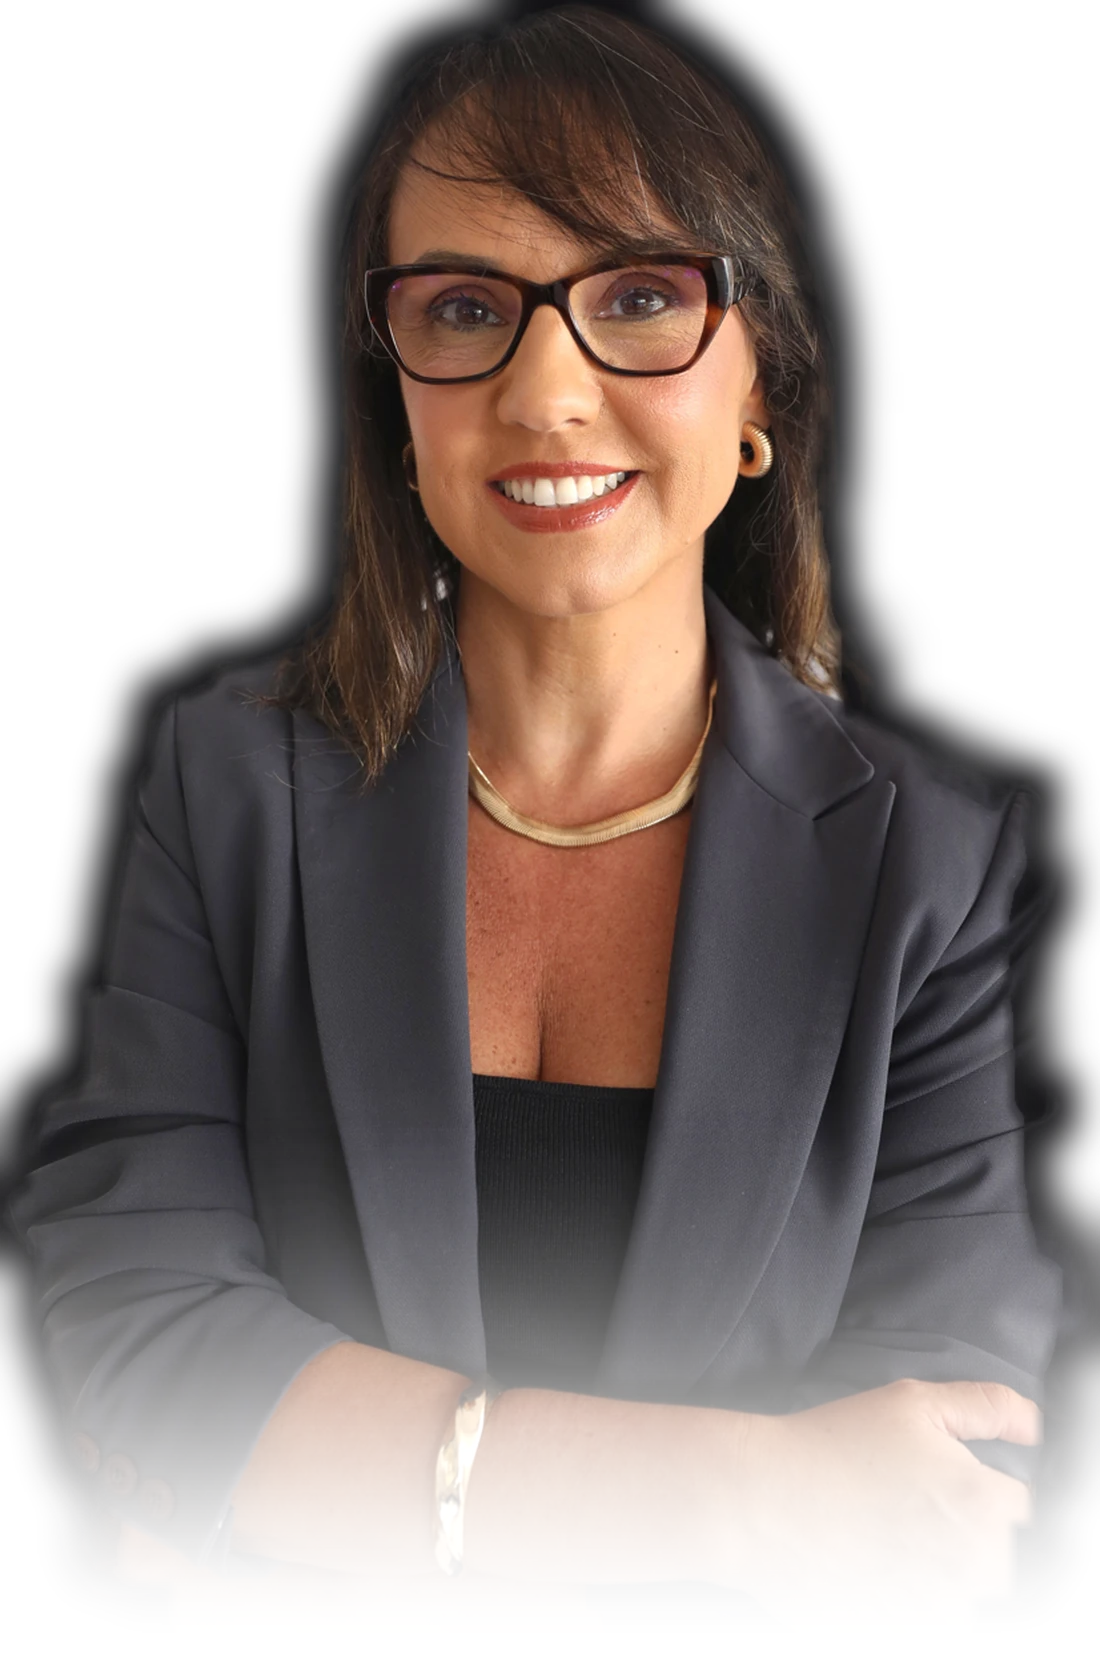
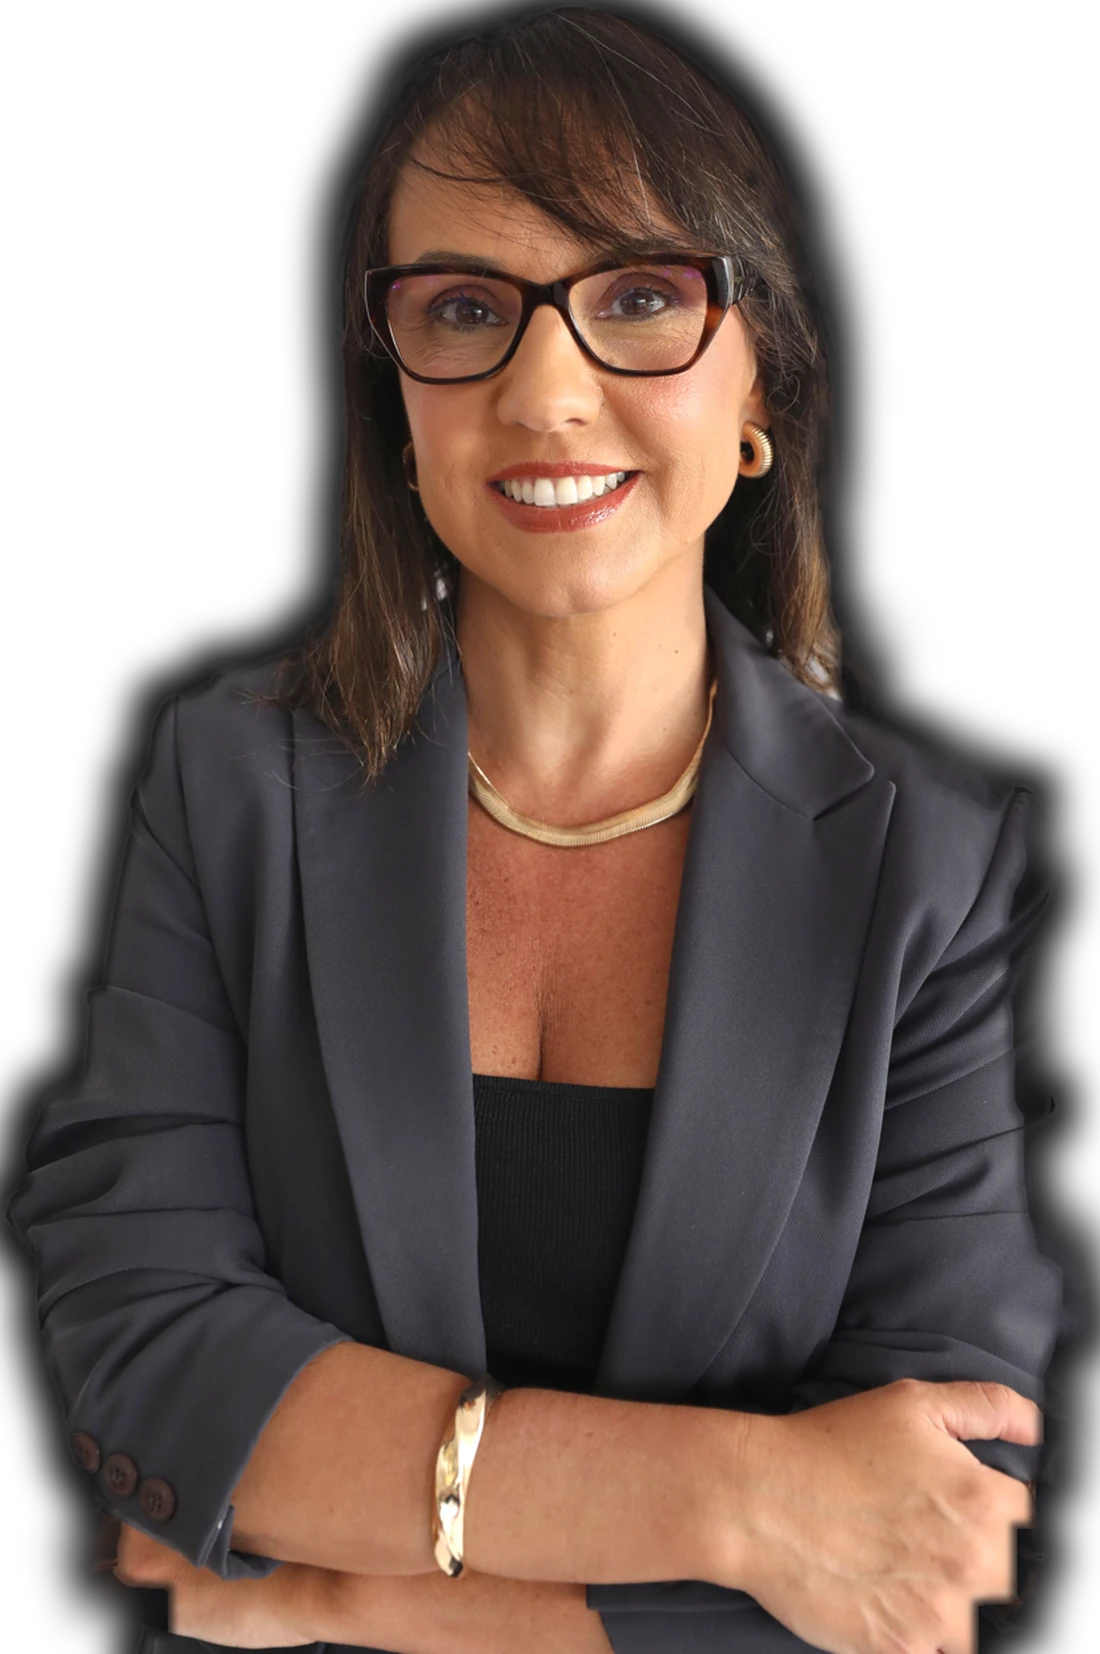
Foto da Daniela nítida até a base; corte apoiado na linha da seção
Sem esvanecimento: filtros de borda calculados com a última linha replicada
(nada escurece nem embaça os braços) e cor do site gravada antes da pluma
externa (sem véu cinza). Desktop: base da foto na linha do rodapé. Mobile:
foto no topo, com linha fina abaixo, e o texto em seguida.

Changed region(s): [[0.0, 0.6784, 1.0, 1.0], [0.4327, 0.0, 0.6182, 0.0308]]

diff --git a/maisonlegacy-ap0223/public/css/style.css b/maisonlegacy-ap0223/public/css/style.css
@@ -308,9 +308,10 @@ body.is-ready .nav { transform: none; opacity: 1; }
   .hero__meta-item--price { flex-basis: 100%; border-right: 0; border-top: 1px solid var(--line); margin-left: 0; }
   .hero__scroll { display: none; }
   .intro__grid, .local { grid-template-columns: 1fr; }
-  /* mobile: foto no topo, largura total, esvanecendo para o texto */
+  /* mobile: foto no topo, largura total, "apoiada" numa linha fina; texto abaixo */
   .final { grid-template-columns: 1fr; gap: 0; padding: 40px 0 48px; }
-  .final__photo { order: 1; max-width: none; margin-bottom: -56px; }
+  .final__photo { order: 1; max-width: 420px; border-bottom: 1px solid var(--line); margin-bottom: 40px; }
+  .final__photo img { display: block; }
   .final__content { order: 2; padding: 0 var(--pad); }
   .final__content h2 { font-size: clamp(36px, 10vw, 48px); }
   .final__name { padding-left: 0; border-left: 0; }
